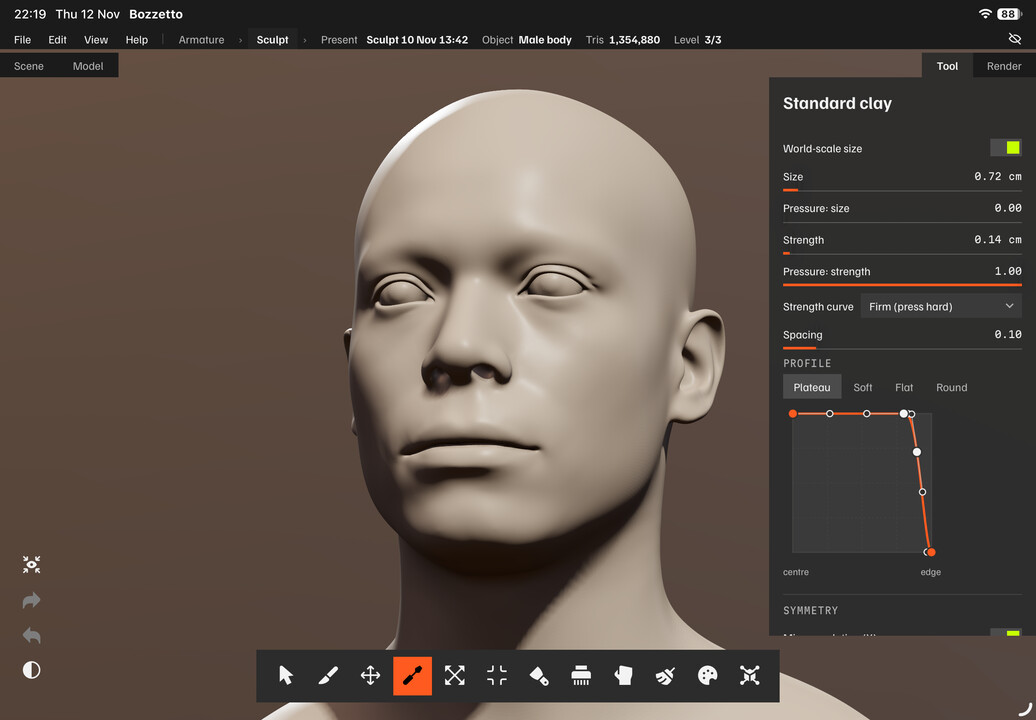
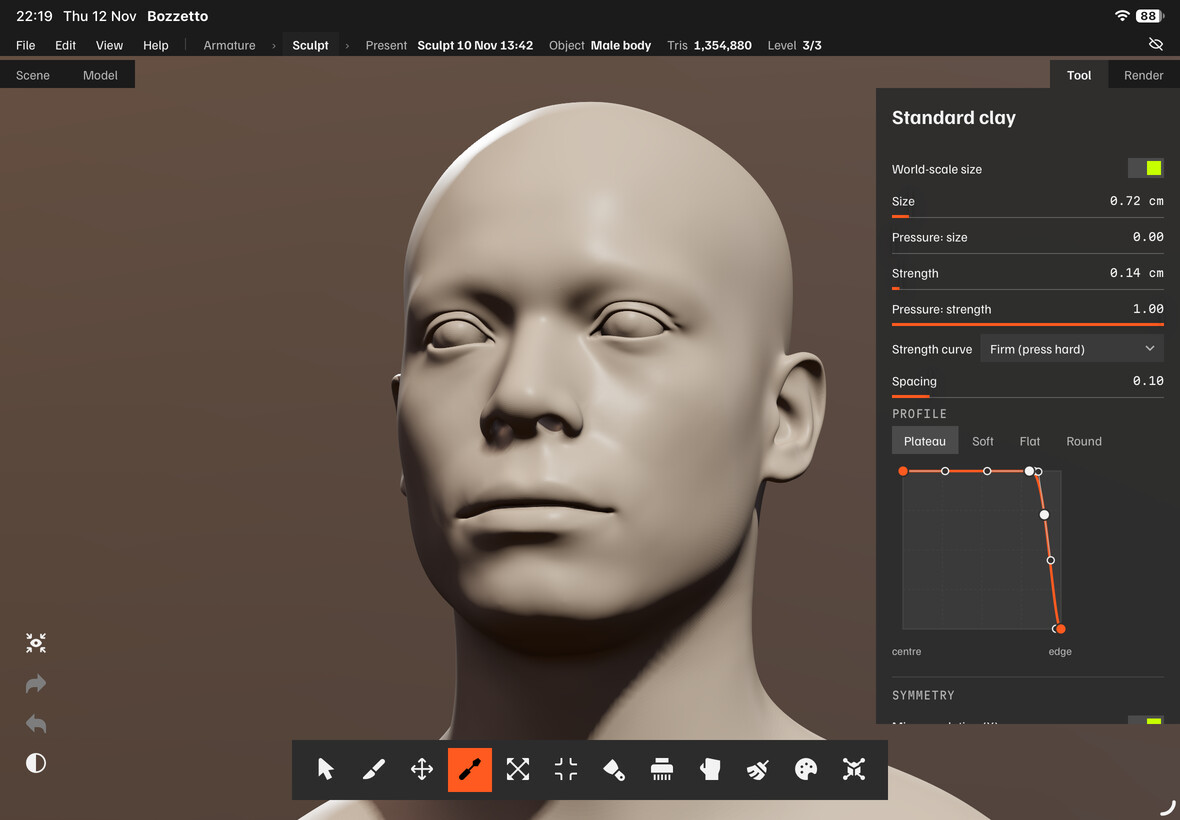
README: the screenshots at 1180 by 820
Claude-Session: https://claude.ai/code/session_017dCMQnbh7nz9LKsPaWCra5

Changed region(s): [[0.2471, 0.0306, 0.278, 0.0611], [0.1236, 0.0, 0.1544, 0.0306], [0.0618, 0.0, 0.0927, 0.0306]]

diff --git a/README.md b/README.md
@@ -1,6 +1,6 @@
 # Bozzetto
 
-<img width="1036" height="720" alt="Bozzetto Screenshot - Sculpt mode" src="docs/screenshots/sculpt.jpg" />
+<img width="1180" height="820" alt="Bozzetto Screenshot - Sculpt mode" src="docs/screenshots/sculpt.jpg" />
 
 A *bozzetto* is the small clay study a sculptor makes before the real piece, where the rough form gets worked out.
 
@@ -23,7 +23,7 @@ Your work autosaves on your device. Nothing uploads unless you sign in and save 
 
 ## Armature
 
-<img width="1036" height="720" alt="Bozzetto Screenshot - Armature mode" src="docs/screenshots/armature.jpg" />
+<img width="1180" height="820" alt="Bozzetto Screenshot - Armature mode" src="docs/screenshots/armature.jpg" />
 
 A posable figure, for reference or as the start of a sculpt. Pick **Create → New Armature** in the gallery. No sign-in needed.
 
@@ -56,7 +56,7 @@ Pick **Create → New Sculpt** in the gallery. No sign-in needed, and nothing le
 
 ## Present
 
-<img width="1036" height="720" alt="Bozzetto Screenshot - Present mode" src="docs/screenshots/present.jpg" />
+<img width="1180" height="820" alt="Bozzetto Screenshot - Present mode" src="docs/screenshots/present.jpg" />
 
 Light the piece, render it and publish it. Open **Present** from the path at the top of Sculpt, or with `Shift`+`P`.
 
